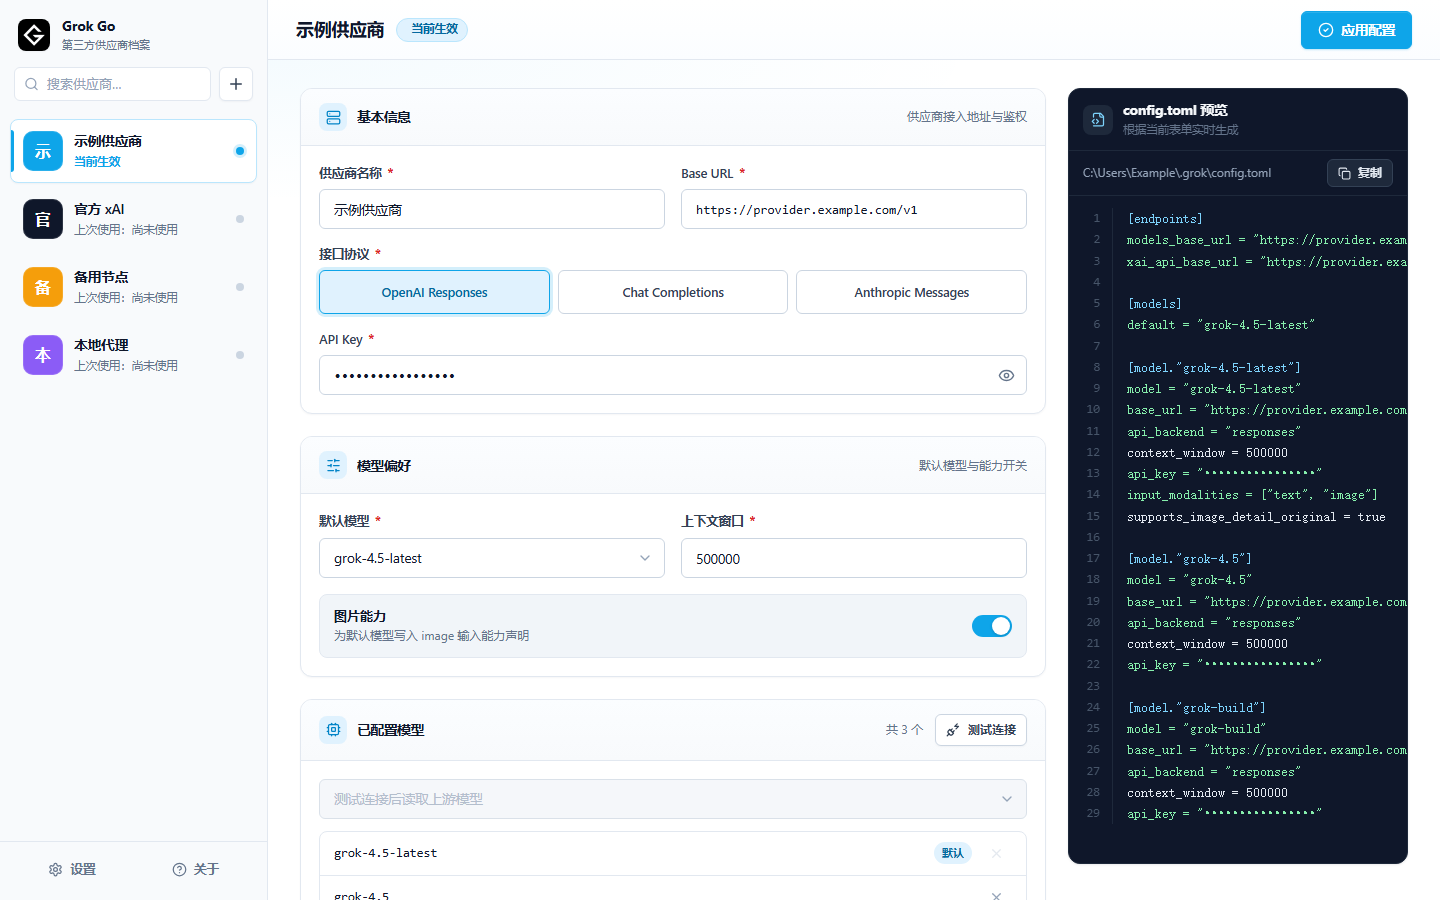
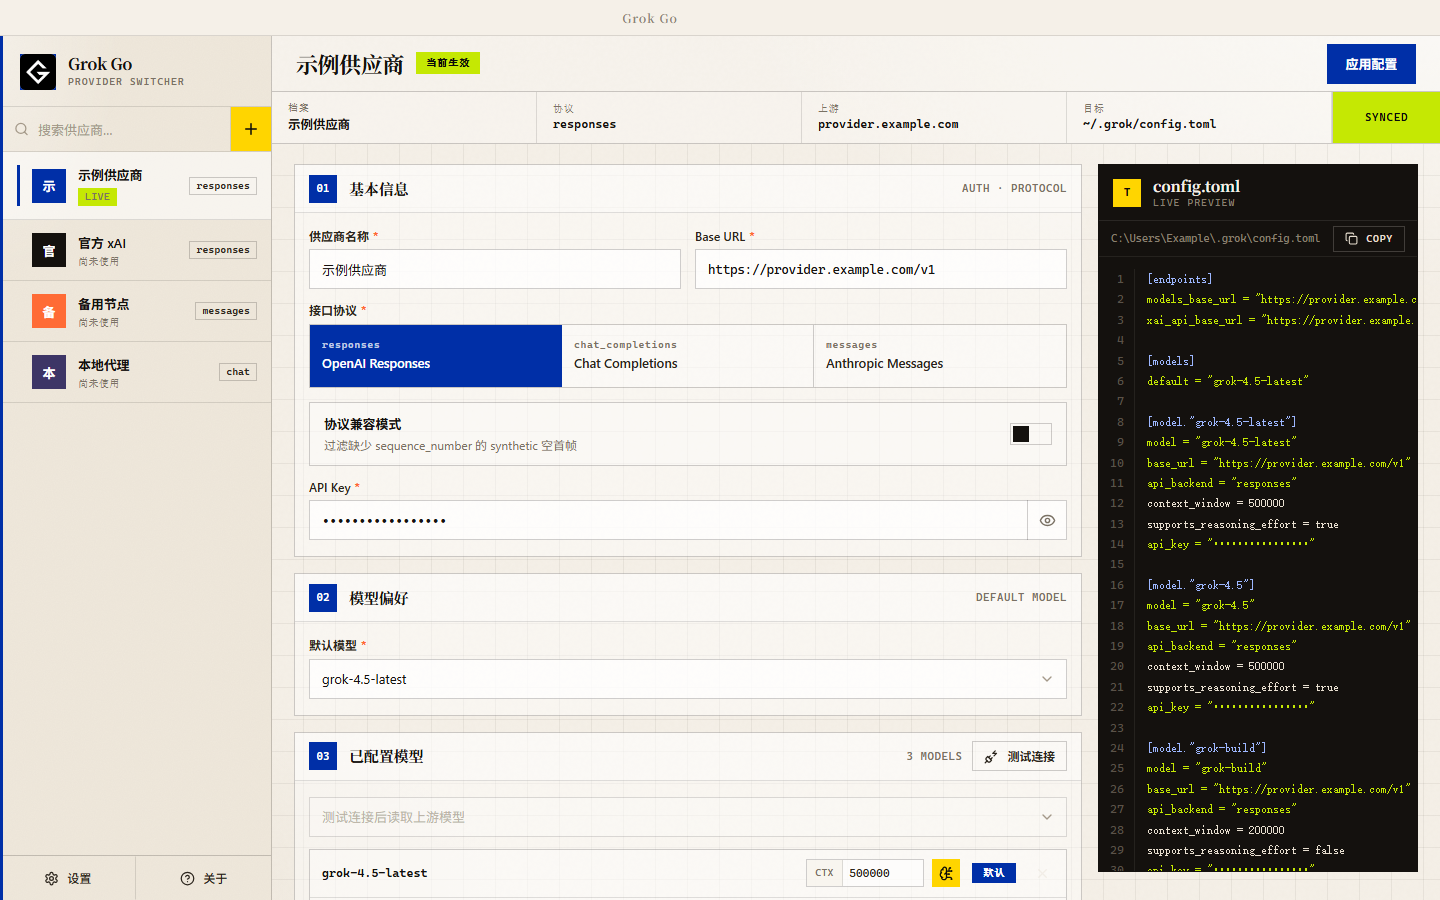
docs: refresh README and repository presentation

diff --git a/README.md b/README.md
@@ -1,64 +1,145 @@
-# Grok Go
+<p align="center">
+  <img src="assets/icon.png" width="96" height="96" alt="Grok Go 图标">
+</p>
 
-Grok Go 是一个面向 Windows 的 Grok Build 第三方供应商配置切换器。它可以保存多个供应商档案，测试模型列表，并安全改写 `~/.grok/config.toml`。
+<h1 align="center">Grok Go</h1>
+
+<p align="center">
+  面向 Windows 的 Grok Build 第三方供应商配置切换器
+</p>
+
+<p align="center">
+  <a href="https://github.com/501498318-eng/Grok-Go/releases/latest"><img src="https://img.shields.io/github/v/release/501498318-eng/Grok-Go?label=release" alt="最新版本"></a>
+  <a href="https://github.com/501498318-eng/Grok-Go/actions/workflows/ci.yml"><img src="https://github.com/501498318-eng/Grok-Go/actions/workflows/ci.yml/badge.svg" alt="CI 状态"></a>
+  <a href="LICENSE"><img src="https://img.shields.io/github/license/501498318-eng/Grok-Go" alt="MIT 许可证"></a>
+  <img src="https://img.shields.io/badge/platform-Windows%20x64-0078D4" alt="Windows x64">
+</p>
+
+Grok Go 用于保存多个第三方供应商档案，并按所选协议生成 Grok Build 使用的 `~/.grok/config.toml`。它提供逐模型配置、写入前备份、外部修改检测和针对已知流事件问题的可选本地兼容代理。
+
+> [!IMPORTANT]
+> Grok Go 是社区项目，与 xAI 没有隶属或背书关系。协议选择只会生成相应的 Grok Build 配置，不会在 OpenAI 与 Anthropic 协议之间进行通用转换；供应商必须原生兼容所选接口。
 
 ![Grok Go 主界面](docs/screenshot.png)
 
-## 功能
+## 下载与安装
 
-- 管理多个供应商档案，支持搜索、导入和导出。
-- 支持 OpenAI Responses、OpenAI Chat Completions 和 Anthropic Messages。
-- 从供应商 `/models` 接口读取模型，也允许手动添加模型。
-- 为每个模型独立配置上下文窗口与 reasoning effort 能力，并选择档案默认模型。
-- 应用配置前创建 `config.toml.bak`，支持一键恢复。
-- 检测配置文件被外部修改，避免静默覆盖。
-- 可选本地协议兼容模式，修复已确认的 Responses 和 Messages 流事件兼容问题，同时保留工具调用事件。
+前往 [Latest Release](https://github.com/501498318-eng/Grok-Go/releases/latest) 下载适合的 Windows x64 版本：
 
-## 下载与运行
+| 文件 | 适用场景 |
+| --- | --- |
+| `Grok-Go-<版本>-Setup-x64.exe` | 推荐。通过安装向导安装，并创建桌面和开始菜单快捷方式。安装新版时会保留现有供应商档案。 |
+| `Grok-Go-<版本>-win-x64.zip` | 免安装。完整解压后运行其中的 `Grok Go.exe`，不要只复制单独的 EXE。 |
+| `SHA256SUMS.txt` | 用于核对下载文件的 SHA-256。 |
 
-普通用户推荐下载 `Grok-Go-1.7.0-Setup-x64.exe`，按安装向导完成安装。安装程序会创建桌面和开始菜单快捷方式，后续安装新版时会覆盖更新程序文件，同时保留供应商档案。
+当前安装包尚未进行代码签名，因此 Windows 可能显示“未知发布者”。请只从本仓库的 Release 页面下载，并在需要时核对 SHA-256。
 
-需要免安装运行时，可以下载 `Grok-Go-1.7.0-win-x64.zip`。请先完整解压 ZIP，再运行其中的 `Grok Go.exe`；不要只复制单独的 EXE 文件。
+## 快速上手
 
-Windows 可能提示“未知发布者”，因为当前版本尚未购买代码签名证书。请仅从本仓库的 Release 页面下载，并使用 Release 中的 `SHA256SUMS.txt` 核对文件哈希。
-
-首次启动时，程序会尝试导入现有 `~/.grok/config.toml`；如果文件不存在，则创建一个空白档案。配置切换只影响之后启动的新 Grok 会话。
-
-## 基本使用
-
-1. 新建或选择供应商档案。
+1. 新建或选择一个供应商档案。
 2. 填写供应商名称、Base URL 和 API Key。
-3. 选择接口协议并点击“测试连接”。
-4. 添加需要写入配置的模型，并选择默认模型。
-5. 点击“应用配置”。原配置会备份为 `config.toml.bak`。
+3. 选择供应商实际支持的接口协议。
+4. 点击“测试连接”读取模型列表，或手动添加模型。
+5. 为每个模型设置上下文窗口和 reasoning effort 能力，并选择默认模型。
+6. 点击“应用配置”，然后重新启动 Grok 会话。
 
-模型列表接口通常只返回模型 ID，不能可靠声明能力。Grok Go 中的推理图标开关会为对应模型写入 `supports_reasoning_effort`；只有确认上游接受 reasoning effort 参数时才应开启。`grok-4.5*` 新增时默认使用 500,000 上下文，其余模型默认使用 200,000，之后都可以逐项修改。
+首次启动时，如果档案文件尚不存在，Grok Go 会尝试将现有的 `%USERPROFILE%\.grok\config.toml` 导入为“当前配置”；无法导入时会创建一个空白档案。配置切换只影响之后启动的新 Grok 会话。
 
-部分 Anthropic 兼容供应商不提供 `/models`，可以手动添加模型后确认强制应用。
+## 核心功能
+
+- 管理、搜索、删除以及 JSON 导入导出多个供应商档案；同名档案导入时自动创建副本。
+- 生成 OpenAI Responses、OpenAI Chat Completions 或 Anthropic Messages 对应的 Grok Build 模型配置。
+- 从供应商模型列表接口读取模型 ID，也允许手动添加和移除模型。
+- 为每个模型独立设置上下文窗口、reasoning effort 能力和默认模型。
+- 保留配置文件中的其他公共设置，写入前备份，并通过原子替换减少写坏文件的风险。
+- 检测 `config.toml` 被其他程序修改的情况，覆盖前要求明确确认。
+- 通过本地兼容代理处理两类已确认的 Responses 和 Messages 流事件问题。
+- 在设置中更改 Grok 配置路径，以及导入或导出版本化档案 JSON。
+
+## 协议与测试连接
+
+| 界面选项 | 写入的 `api_backend` | 测试连接鉴权 | 兼容模式 |
+| --- | --- | --- | --- |
+| OpenAI Responses | `responses` | `Authorization: Bearer ...` | 可用 |
+| Chat Completions | `chat_completions` | `Authorization: Bearer ...` | 不可用 |
+| Anthropic Messages | `messages` | `x-api-key` 与 `anthropic-version` | 可用 |
+
+“测试连接”会向 `{Base URL}/models` 发起请求，超时时间为 15 秒，并读取 OpenAI 风格的 `data[].id` 模型列表。它只能确认模型列表接口在当前鉴权下可访问，**不能证明**以下能力可用：
+
+- 对话或流式响应；
+- 工具调用；
+- reasoning effort；
+- 图片输入；
+- 所有返回模型均可实际调用。
+
+部分 Anthropic 兼容供应商不提供模型列表接口。遇到 HTTP 404 时，可以手动添加模型并在确认供应商信息无误后强制应用。
+
+## 模型设置
+
+Grok Go 会为每个已配置模型写入独立的 `context_window` 和 `supports_reasoning_effort`：
+
+- 新增的 `grok-4.5*` 模型默认使用 `500000` 上下文窗口。
+- 其他模型默认使用 `200000`，两者都可以逐项修改。
+- reasoning 开关只负责写入 `supports_reasoning_effort = true/false`，不会探测或改造上游能力。
+- 只有确认供应商与模型接受 reasoning effort 参数时才应开启该开关。
+- `reasoning` 不是 `input_modalities` 字段的可选值；Grok Go 不会通过图片能力字段声明推理支持。
+
+模型列表接口通常只返回模型 ID，无法可靠声明模型能力。即使测试连接成功，错误开启 reasoning 仍可能导致 Grok Build 提示 `current model does not support reasoning effort`。
 
 ## 协议兼容模式
 
-部分第三方兼容接口会返回 Grok Build 无法解析的流事件。为对应档案开启“协议兼容模式”后，Grok Go 会：
+部分第三方接口会返回 Grok Build 无法解析的流事件。为对应档案开启“协议兼容模式”后，Grok Go 会在 `127.0.0.1:8787` 启动本地代理，并将已配置模型的 `base_url` 指向 `http://127.0.0.1:8787/v1`。
 
-- 在本机启动 `127.0.0.1:8787` 代理；
-- 将对应模型的 `base_url` 写为 `http://127.0.0.1:8787/v1`；
-- 对 Anthropic Messages 过滤 thinking 块，并保留 `tool_use`、工具名和 `input_json_delta`；
-- 对 OpenAI Responses 只过滤缺少 `sequence_number` 的 synthetic 空首帧，并保留函数调用事件和原始序号；
-- 窗口关闭后驻留系统托盘，避免代理中断。
+代理只应用以下精确规则：
 
-兼容模式只应用经过验证的精确规则。它不会补造工具名、调用 ID、参数或事件序号，也不会自动修复乱序、鉴权失败、模型不存在和上游中断。
+- **Anthropic Messages：**过滤响应中的 `thinking` 内容块，重新映射剩余内容块索引，并保留 `tool_use`、工具名和 `input_json_delta` 等工具调用事件。
+- **OpenAI Responses：**只过滤缺少 `sequence_number`、内容为空且标记为 synthetic first token 的 `response.output_text.delta` 首帧；其他事件与合法序号保持原样。
 
-要彻底退出，请在系统托盘菜单中选择“退出并停止本地代理”。
+兼容模式不是协议转换器，也不会补造工具名、调用 ID、参数或事件序号。它不能修复鉴权失败、模型不存在、事件乱序、上游中断或其他未知格式问题。
 
-## 安全说明
+兼容模式启用期间，关闭主窗口会让 Grok Go 驻留系统托盘，以保持代理运行。要彻底退出，请在托盘菜单中选择“退出并停止本地代理”。
 
-供应商档案保存在 `%APPDATA%\grok-config-switcher\profiles.json`，其中 API Key 为明文。导出的 JSON 同样包含明文 API Key，请勿上传到代码仓库、网盘或公开聊天。
+## 配置、备份与恢复
 
-本仓库和 Release 构建不包含任何用户档案、真实 API Key、`config.toml` 或备份文件。安全问题请参阅 [SECURITY.md](SECURITY.md)。
+- 默认配置路径：`%USERPROFILE%\.grok\config.toml`，可在设置中选择其他路径。
+- 每次应用配置时，如果当前文件存在，会覆盖生成一份 `config.toml.bak`；程序只维护这一份最近备份，不保存历史备份列表。
+- “恢复备份”会交换当前配置与 `.bak` 的内容，因此恢复前的配置仍可再次换回。
+- 写入使用临时文件原子替换，并在应用或恢复前检查外部修改，避免静默覆盖其他程序刚写入的内容。
+- 应用配置后，如果 VS Code、Cursor 或 Windsurf 的用户设置中已经存在 `grok.defaultModel`，Grok Go 会将其同步为当前默认模型；它不会主动创建这个设置。
+
+## 数据与安全
+
+供应商档案保存在：
+
+```text
+%APPDATA%\grok-config-switcher\profiles.json
+```
+
+API Key 会按用户选择以明文保存在档案文件和 Grok 配置中，导出的 JSON 也包含明文 API Key。请勿将 `profiles.json`、导出 JSON、`config.toml`、日志或截图中的真实供应商信息上传到 GitHub、网盘或公开聊天。
+
+本仓库及其 Release 构建不包含用户档案、真实 API Key、`config.toml` 或备份文件。安全问题请参阅 [SECURITY.md](SECURITY.md)。
+
+## 常见问题
+
+### 测试连接成功，但对话或工具调用失败
+
+测试连接没有调用推理接口，也不检查流事件。请先确认协议选择与供应商文档一致，再检查实际响应格式。只有错误符合上述两条精确规则时才应开启兼容模式；其他兼容问题通常需要供应商修复。
+
+### Anthropic 模式无法读取模型列表
+
+部分供应商没有实现 `/models`。确认 Base URL、模型 ID 和 API Key 后，可以手动添加模型并强制应用。
+
+### Grok 提示模型不支持 reasoning effort
+
+关闭该模型右侧的 reasoning 开关，或向供应商确认模型是否接受 reasoning effort 参数。向 `input_modalities` 添加 `reasoning` 不能解决此问题。
+
+### 关闭窗口后程序仍在运行
+
+启用兼容模式时这是预期行为。程序需要驻留托盘以维持本地代理；通过托盘菜单可以完全退出。
 
 ## 本地开发
 
-需要 Node.js 22 和 pnpm 10：
+环境要求：Node.js 22、pnpm 10、Windows。
 
 ```powershell
 pnpm install --frozen-lockfile
@@ -74,13 +155,8 @@ pnpm run build
 pnpm run dist
 ```
 
-正式构建会输出安装程序和 ZIP 解压版：
+GitHub Actions 会在 Windows 环境中执行依赖安装、类型检查、单元测试和生产构建。参与开发前请阅读 [CONTRIBUTING.md](CONTRIBUTING.md)。
 
-```text
-release/Grok-Go-1.7.0-Setup-x64.exe
-release/Grok-Go-1.7.0-win-x64.zip
-```
+## 许可证
 
-## 参与贡献
-
-请先阅读 [CONTRIBUTING.md](CONTRIBUTING.md)。项目使用 MIT 许可证。
+Grok Go 采用 [MIT License](LICENSE) 发布。